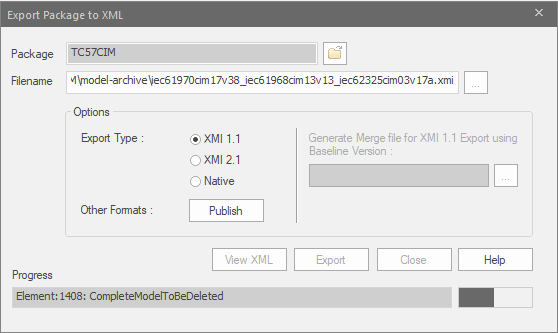
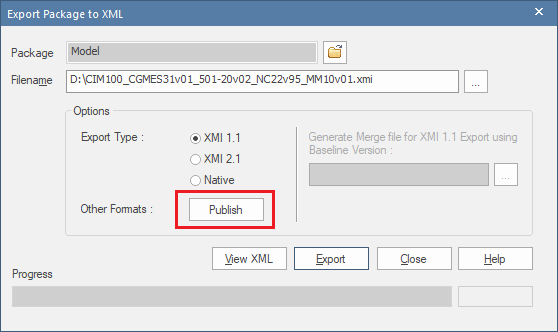
Updates to CIMTool's documentation on the topic of CIM schema imports/exports

diff --git a/docs/how-to/import-cim-uml.md b/docs/how-to/import-cim-uml.md
@@ -1,46 +1,61 @@
-# Import a Schema (e.g. CIM UML)
-Before building a Contextual Profile in **CIMTool** you first need to import a version of the CIM UML. The CIM UML is typically imported when creating a new **CIMTool** project. However, you can also add custom UML to supplement an existing CIM UML schema or do a full replace of the CIM UML, as in the case of a new CIM version.
+# Using CIMTool with Enterprise Architect: Importing a CIM Schema
+
+The CIM UML model is maintained within Sparx Systems UML design tool, [Enterprise Architect (EA)](https://sparxsystems.com/) as shown. 
+
+![Enterprise Architect CIM UML](../images/EnterpriseArchitectCIMUML.png)
+
+Before building a Contextual Profile in **CIMTool** you must first import a version of the CIM UML.  This step is typically done when creating a new **CIMTool** project. However, you can import additional custom UML schemas (i.e. additional schemas containing extensions to the CIM) and co-locate them alongside the base CIM UML schema in your project. **CIMTool** automatically processes such custom schemas by internally creating a union of them with the base CIM schema. Alternatively, an existing CIM UML schema can be replaced outright in a **CIMTool** project when a new version of the CIM is released.
+
+The CIM can be imported in one of two possible formats as described later on this page, but first a description of where to locate the CIM UML is necessary.
 
 ## Obtain the CIM UML
-UCAIug Task Force 13 (UTF13), UCAIug Task Force 14 (UTF14), and UCAIug Task Force 16 (UTF16) are groups that work to advance the CIM and who publish periodic releases of the CIM UML. These releases are published to the [CIM Users Group](https://cimug.ucaiug.org/) website in [Enterprise Architect](https://sparxsystems.com/) Project file (`.eap` or `.eapx`) format.
 
-![Enterprise Architect with CIM UML](../images/EnterpriseArchitectCIMUML.png "Enterprise Architect showing CIM UML")
+UCAIug Task Force 13 (UTF 13), UCAIug Task Force 14 (UTF 14), and UCAIug Task Force 16 (UTF 16) are groups that work to advance the CIM and who publish periodic releases of the CIM UML. These releases are published to the [UCAIug (CIM Users Group)](https://cimug.ucaiug.org/) website in [Enterprise Architect](https://sparxsystems.com/) project file (`.eap` or `.eapx`) format.
 
-You can download the current version of CIM UML Enterprise Architect (`.eap`/`.eapx`) files from CIM Users Group website [here](https://cimug.ucaiug.org/CIM%20Model%20Releases/Forms/AllItems.aspx). The page looks like this:
+Both past and current releases of these CIM EA project files are made publicly available for download from the UCAIug. Current releases can be found at [Current CIM Model Drafts](https://cimug.ucaiug.org/CIM%20Model%20Releases/Forms/AllItems.aspx) and this page should look similar to the next screenshot. Older releases are available at [Past CIM Model Releases](https://cimug.ucaiug.org/CIM%20Releases/Forms/AllItems.aspx).
 
-![CIM Users Group UML Documents Repository](../images/CIMugUMLDocumentsRepository.png "CIM Users Group UML Documents Repository")
-
-!!! note
-
-    You must have a CIM Users Group account to access to previous versions of the CIM UML. Use the CIM Users Group [Join form](https://cimug.ucaiug.org/pages/Join.aspx) to get an account. Note that there both paid and free levels. The free account does give access to previous versions of the CIM UML.
-
-## Import via `.xmi`
-Unfortunately, Enterprise Architect Project files (`.eap`) can't be easily imported directly into **CIMTool**. To use them in **CIMTool**, most users will find it is easiest to convert from an `.eap` or `.eapx` file to an XML Metadata Interchange (XMI) file (`.xmi`).
-
-Enterprise Architect has an "Export" feature to export to `.xmi` format. To use this, open the desired CIM UML version of the `.eap` or `.eapx` file (e.g. `iec61970cim17v38_iec61968cim13v13_iec62325cim03v17a.eap`) in Enterprise Architect. Then select the top level package.
+![CIM Users Group UML Documents Repository](../images/CIMugUMLDocumentsRepository.png)
 
 !!! note
 
-    Note that you can't export to `.xmi` with Enterprise Architect Lite version, only with the full (paid) version of Enterprise Architect.
+    Some content on the UCAIug site may be restricted to registered users. To access previous versions of the CIM UML you must be a CIM Users Group member. Use the CIM Users Group [join form](https://cimug.ucaiug.org/pages/Join.aspx) to register and create an account. Note that there are both paid and free levels of membership.
+
+## Exporting the CIM from Sparx EA via `.xmi`
+
+Enterprise Architect has an "Export" feature to export to the `.xmi` format. To use this, open the desired CIM UML version of the `.eap` or `.eapx` file (e.g. `iec61970cim17v38_iec61968cim13v13_iec62325cim03v17a.eap`) in Enterprise Architect. 
+
+!!! note
+
+    To export to `.xmi` the full (paid) version of Enterprise Architect is required. The Enterprise Architect Lite (free) version does not support this capability.
 
 In the top ribbon, select the Publish tab, then click Export-XML
 
-![Export to XMI](../images/EAExportToXMI.png "Export to XMI")
+![Export to XMI](../images/EAExportToXMI.png)
 
-Use the following export options
+You'll be presented with the next dialog.  Click the "Other Formats:" **Publish** button. 
 
-  * Select XMI 1.1
-  * Select a Filename (save location and name) for the XMI file. Using a name that matches the `.eap` is helpful (e.g. `iec61970cim17v38_iec61968cim13v13_iec62325cim03v17a.xmi`)
+![Export to XMI](../images/EAExportToXMIOptions.png)
 
-Then click the Export button
+When the "Publish Model Package" dialog appears use the following export options highlighted in the screenshot below:
 
-![Export to XMI](../images/EAExportToXMIOptions.png "Export to XMI")
+1. The "Package" field is used to specify which package in the model hierarchy you wish to be exported. Specifying the root "Model" package as shown in the screenshot is most common.  However, if for exmaple your profiling work is focused exclusively on classes located hierarchically within the Grid (i.e. formerly IEC61970) package then selecting that as your Package will limit the scope of the packages to be exported and reduce the size of the `.xmi` file.
+2. Under "General Options" be sure that only the "Format XML Output" check box is selected.
+3. For the "XML Type" selection, choose the "UML 1.4 (XMI 1.2)" option.
+4. In the "Filename" field, select or enter the filename you want (save to location and name) for the XMI file you are exporting. Using a name that matches the the name of your `.eap` file is recommended as it helps identifying the version of the model the XMI export was for (e.g. `iec61970cim17v40_iec61968cim13v13_iec62325cim03v17a.xmi`)
 
-To import the `.xmi` file, in **CIMTool** open the projects you'd like to add the CIM UML to and Select File -> Import. In the Import dialog, expand CIMTool folder and select Import Schema.
+Finally, click the Export button.
 
-![Select Import Schema](../images/ImportSchema.png "Import Schema")
+!!! note
 
-Browse to find the XMI file you exported from Enterprise Architect previously then select the checkboxes next to the project(s) for which you'd like to import the UML. Don’t edit the Namespace.
+    In the early years, CIM was maintained using IBM's [Rational Rose](https://en.wikipedia.org/wiki/IBM_Rational_Rose_XDE) UML modeling tools. In the late 2000s the CIM was migrated to Enterprise Architect and during that time XMI exchanges between the two products was necessary. As per EA's Model Exchange User Guide: "With XMI, model details can be exchanged between different UML tools and other tools that are capable of using XMI. Limited support for export to Rational Rose is provided using the Rose version of the XMI 1.1 specification, as implemented by Unisys for Rational products." If you encounter older **CIMTool** documentation indicating the need to check the "Unisys/Rose Format" checkbox for `xmi` exports from EA in the screenshot it should be ignored. As noted in EA's documentation, this checkbox is only related to XMI 1.1 specification while the latest recommended export settings as illustrated are based on "UML 1.4 (XMI 1.2)".
+
+![Export to XMI](../images/EAExportToXMIOptionsDetail.png)
+
+To import the `.xmi` file, in **CIMTool** open the project you'd like to apply your CIM UML `.xmi` to and **Select File -> Import**. In the Import dialog, expand CIMTool folder and select Import Schema.
+
+![Select Import Schema](../images/ImportSchema.png)
+
+Browse to find the XMI file you exported from Enterprise Architect previously then select the checkboxes next to the project(s) for which you'd like to import the UML. At this point it is important to determine which namespace to specify. This will be the default namespace to be associated with the CIM schema (i.e. the base canonical model). Various releases of the CIM are specified as radio buttons that when selected will provide the default namespace for that release of the CIM while the "Preference*" radio button just give a generic namespace. Edit this field if needed.  If importing an `.xmi` file containing your own custom extension packages then provide a unique namespace to associate with them in this field.
 
 ![Import Schema Dialog](../images/ImportSchemaDialog.png "Import Schema Dailog")
 
@@ -48,7 +63,31 @@ Once imported the CIM UML will be stored in the **Schema** folder of the project
 
 There is typically one schema per project, although there are cases where there may be more than one (e.g. if you have custom extensions or multiple CIM UML versions for a single Contextual Profile).
 
-## Using the `.eap` File Directly
-An alternative to exporting from Enterprise Architect as an XMI file is to directly import the Enterprise Architect Project (`.eap`) file into **CIMTool**. This eliminates the need to export anything from Enterprise Architect before importing to **CIMTool**. 
+## Using the EAP File
 
-If you have hard requirement to support unicode in your UML model and are using an .eap project file rather than an .eapx file refer to the [README](https://github.com/CIMug-org/CIMTool) page for further information and links to the EA Sparx documentation on converting your project file to support unicode. Note that this is not necessary in most scenarios when utilizing a CIM EA project file.
+Exporting XMI can be slow. An alternative is to directly import an Enterprise Architect project file (`.eap` or `.eapx`) into **CIMTool**. This eliminates the need to export anything from EA before importing to CIMTool.  
+
+To import an `.eap` or `.eapx`file into a CIMTool project, use the **CIMTool** Schema Import wizard and select a file type of either `.eap` or `.eapx` respectively when browsing for the file. You must close the project in EA before importing it to CIMTool.
+
+> Note that as of the EA 16.x release, `.eap` and `.eapx` files are no longer supported. **CIMTool** does not currently support the new EA 16.x project file format and instead the XMI schema option should be utilized if using the new release. For further information refer to EA's [EAP/EAPX File to QEA File Format](https://sparxsystems.com/enterprise_architect_user_guide/16.0/model_exchange/transfereap.html) page for a better understanding of changes in 16.x.
+
+### File Format Considerations
+
+The following table highlights the various tradeoffs of utilizing one format over another:
+
+Format | Description | Pros | Cons
+----- | -----| -----| -----
+`.eap` / `.eapx`| Native EA project files. Standard in EA 15.x releases and earlier the internal format is based on MS Access. Specifically, `.eap` files are based on the Jet3.5 engine and `.eapx` on Jet4.0 (see [Access Database Engine History](https://en.wikipedia.org/wiki/Access_Database_Engine)) with both stored as binaries. <br/><br/>The Jet database engine is available only in 32 bit configurations. Which means that the `.eap` and `.eapx` file formats are still supported in the 32 bit version of EA 16.x, but not in the new 64 bit version of Enterprise Architect 16.0. To keep using the data in an `.eap` or `.eapx` file in a 64 bit release of EA 16.x you must transfer the contents of the file to another project that the 64 bit version can access. This project can be a file (such as a `.qea` or Firebird file) or a database repository (such as a SQL Server or MySQL database). Refer to the Sparx article [Migrate an EAP/EAPX File to QEA File Format](https://sparxsystems.com/enterprise_architect_user_guide/16.0/model_exchange/transfereap.html) for how to peform this. | Both file formats can be imported directly into **CIMTool** without the overhead of having to export as an `.xmi` file. <br/><br/>Multi-language support via unicode is available with an `.eapx` file. | If hosting a CIMTool project on Github it is not recommended that an EA project file be used (see: [About large files on GitHub](https://docs.github.com/en/repositories/working-with-files/managing-large-files/about-large-files-on-github) and [Git LFS](https://docs.github.com/en/repositories/working-with-files/managing-large-files/configuring-git-large-file-storage)). Instead the `.xmi` file format is recommended. <br/><br/>The `.eap` file format does not support [unicode](https://unicode.org/standard/WhatIsUnicode.html) and therefore is not ideal for profiles derived from CIM classes or attributes with descriptions and/or notes containing non-ASCII characters. NOTE: To convert an `.eap` file to an `.eapx` format see [Use Languages Other Than English](https://sparxsystems.com/enterprise_architect_user_guide/15.0/team_support/check_in_languages_other_than_.html) which has the link to the [EABase JET4](https://sparxsystems.com/bin/EABase_JET4.zip) file that can be used for this purpose. Visit the [Project Data Transfers](https://sparxsystems.com/enterprise_architect_user_guide/15.0/model_publishing/performadatatransfer.html) page for further information on this process. If choosing to migrate to Jet4 then EA must also be configured to use Jet4. Refer to the [General Options](https://sparxsystems.com/enterprise_architect_user_guide/15.0/user_interface/generalsettings.html) page for details.
+`.qea` / `.qeax` | Native EA project files. Introduced in EA 16.x the internal format of these files is based on the [SQLLite](https://www.sqlite.org/) open source database and is stored as binaries. Both file types support basic replication with the `.qeax` extension indicating that file sharing is enabled. A `.qeax` file can simply be renamed back to `.qea` to disable file sharing. | _These formats are not yet supported in **CIMTool**._ <br/><br/> These native project file formats will be able to be imported directly into **CIMTool** without the overhead of having to export an `.xmi` file.| | If hosting a CIMTool project on Github the use of one of these project files is not recommended (see: [About large files on GitHub](https://docs.github.com/en/repositories/working-with-files/managing-large-files/about-large-files-on-github) and [Git LFS](https://docs.github.com/en/repositories/working-with-files/managing-large-files/configuring-git-large-file-storage)). Instead an `.xmi` file should be utilized.
+`.xmi` | `.xmi` | Exporting the CIM as an `.xmi` schema file has added flexibility not available when using a native EA project file.  Specifically, a subset of the CIM can be exported by simply selecting a specific package for export. This approach can be used to reduce the size of the schema file in a **CIMTool** project. Given that profiles are commonly defined for a particular domain (e.g. Transmission, Distribution, Market-related profiles) just a subset of the CIM can be exported and used within **CIMTool**. This is more suitable when hosting a **CIMTool** project in Github. <br/><br/> **CIMTool** supports the ability to import multiple `.xmi` schema files and for a user to assign a distinct namespace to each. This is useful when defining and exporting custom extensions as a separate `.xmi` file that coexists alongside an `.xmi` for the CIM model. | Exporting `.xmi` files can be time consuming and therefore inconvenient if quick iterative changes are needed to the CIM with a reimport into a **CIMTool** project. In this scenario it is suggested to use one of the native EA project files. The direct use of a project file eliminates the roundtrip time needed for the "make changes to the UML, export to XMI, import XMI into CIMTool" cycle.
+
+## CIMTool Profiling Tutorial
+
+For further details on how to use CIMTool to create and edit profiles based on the CIM visit the **How To** section of [https://cimtool.ucaiug.io/](https://cimtool.ucaiug.io/).
+
+
+
+
+
+
+
